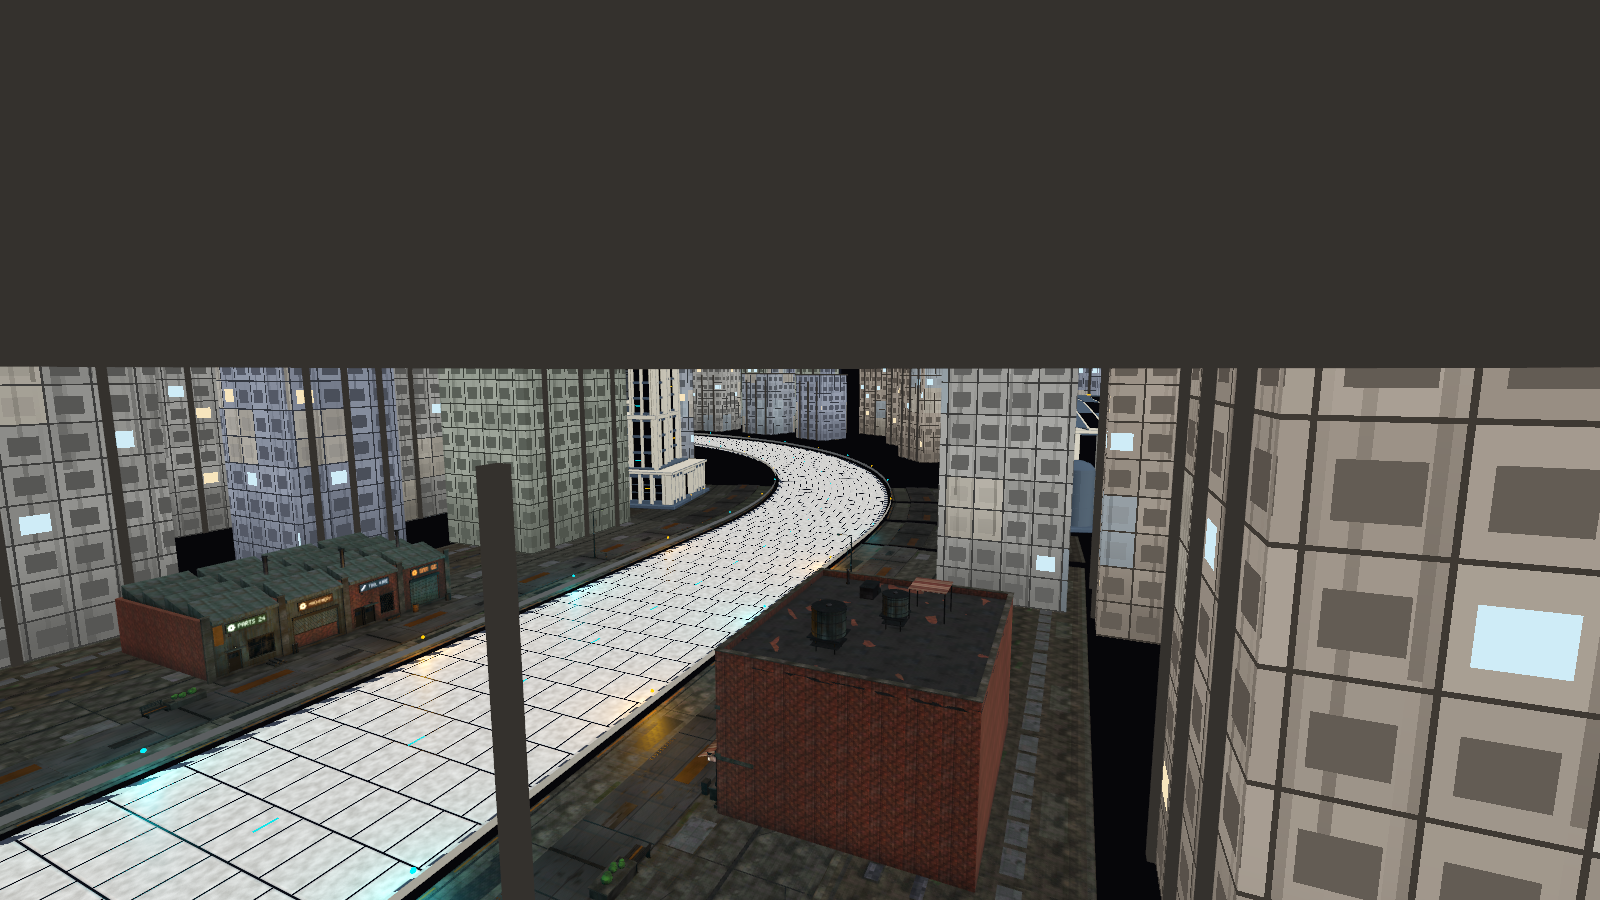
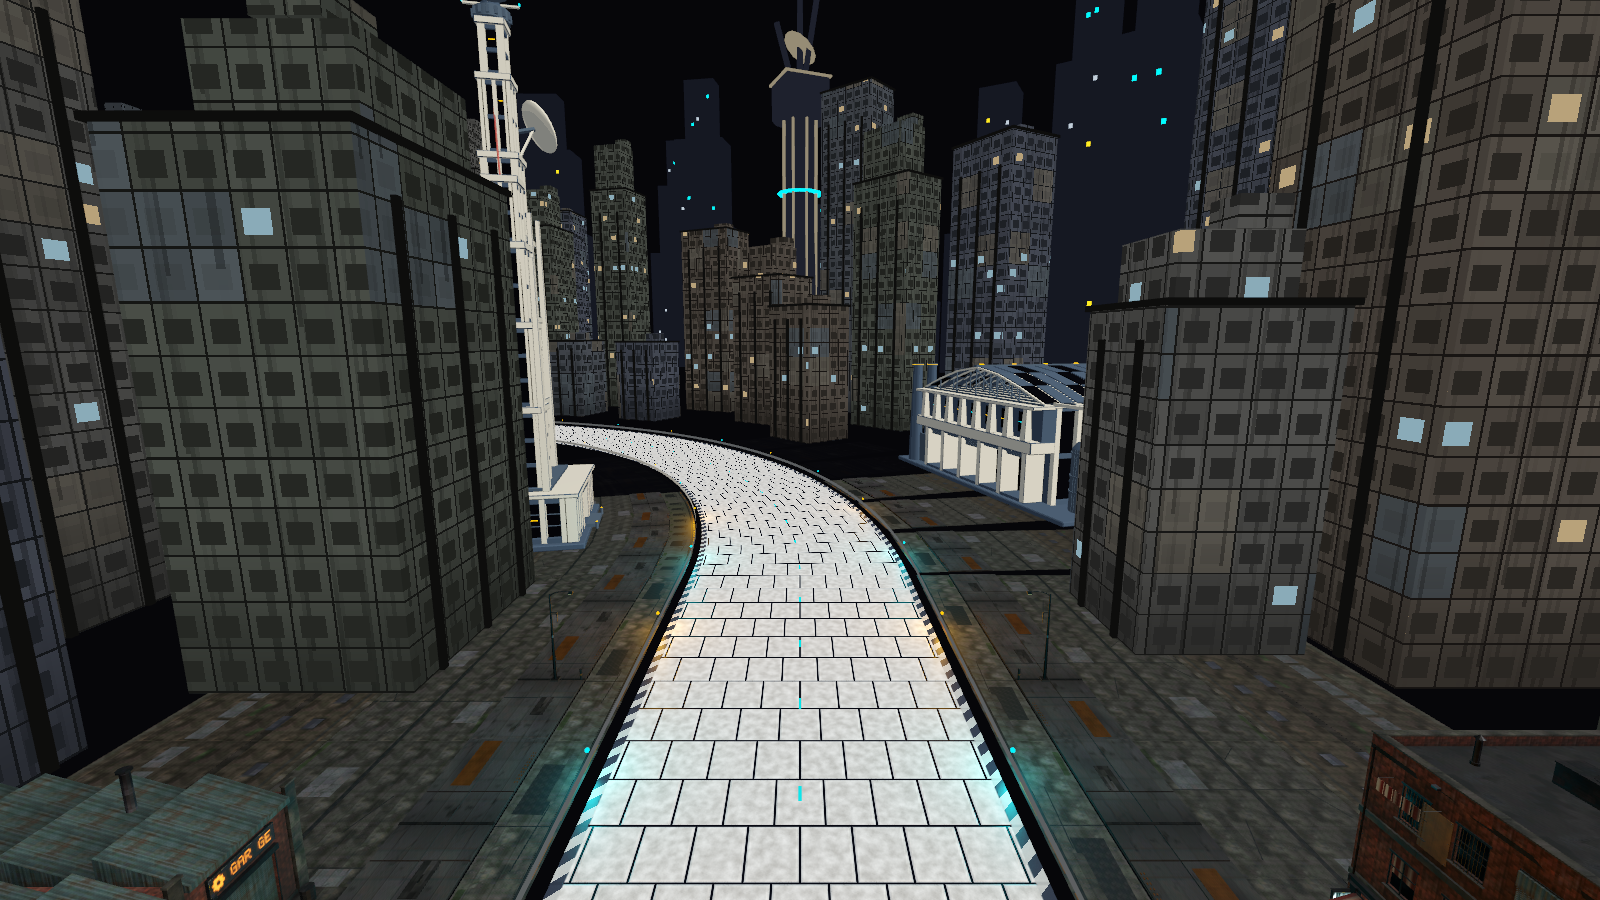
feat(city): finish weathered full-course city infill

diff --git a/.ai/reviews/city-background-infill-disposition.md b/.ai/reviews/city-background-infill-disposition.md
@@ -7,3 +7,13 @@ The mixed-author ak-review wrapper selected an optional reviewer automatically, 
 First-pass actual Vulkan checks: audio46/0, backdrop55/0, 21 captures saved/content/framing checks passed. Ground192/0, city227/0 headless and physical season-course33/0 passed in the delegated run. Its broad test was repeatedly cut off by the tool execution timer, including at the audio heading; this was not an audio assertion failure. Audio was independently rerun in both the baseline and integrated worktree and passes.
 
 Actual images require dimmer backdrop facades/trim so they support the detailed frontage at night. Follow-up: shader/trim exposure only, plus actual-renderer transform comparison and displacement detector. Placement, densities and shared assets stay fixed.
+
+## Final disposition
+
+Independent Codex review round2 found the detector meaningful and requested one initial await _settle() before reading fresh renderer transforms. Root added that exact wait. Both requested MED fixes are now verified: actual 1,438-instance matching, deliberate displacement rejection and restoration pass under Vulkan. No production-code findings or HIGH findings were raised. Review was not submitted for a third round.
+
+The visual follow-up keeps all placement and geometry identical. Body/roof/patch exposure is0.22, trim(0.045,0.043,0.040), sparse window albedo0.3 and emission0.2. Root renamed the exposure constant to BACKDROP_EXPOSURE after the focused run caught a reserved Godot identifier collision; the corrected shader compiles and runs successfully. One-off .ai/backdrop_focus.py was removed; the normal runner remains wired to the dedicated scene.
+
+Final ak-test exit0: backdrop57/0 headless, backdrop60/0 Vulkan, QA0failures/all21captures, audio46/0. All actual-renderer transforms match with zero mismatches. All four route quarters were inspected in actual driver/sidewalk/overview captures. Ground/building source assets, textures/import sidecars, course and vehicle data have no changes in this pass. No new lights or colliders. Delegate worktrees and redundant broad test jobs were cleaned; task branches preserved.
+
+The helper timeout and inherited TEST_CMD issue explain the interrupted broad runs; they are not claimed as a full default-suite pass. No unresolved review findings remain. Final approval of the artistic direction remains the user review of the preview.

diff --git a/docs/city-realism.md b/docs/city-realism.md
@@ -63,4 +63,8 @@ The backdrop uses one body MultiMesh and one trim MultiMesh. It has separate har
 
 Godot review capture coverage now includes four city overviews as well as eight driver views, eight sidewalk views and the ramen closeup (21 total). Each overview must frame at least one detailed frontage and five original/background pieces. Neutral overviews use diagnostic lighting to show layout and surface detail; driver/night views use the race environment and a QA camera headlight.
 
-Block Circuit emits 227 added backdrop buildings: 71 / 47 / 55 / 54 across the four quarters. Their 1,438 box instances total 17,256 triangles across two material batches. All 55 dedicated backdrop checks pass. The existing detailed-city total remains 887,544 triangles with 29 buildings.
+Block Circuit emits 227 added backdrop buildings: 71 / 47 / 55 / 54 across the four quarters. Their 1,438 box instances total 17,256 triangles across two material batches. Final dedicated backdrop checks pass 57/0 headless and 60/0 with Vulkan. The existing detailed-city total remains 887,544 triangles with 29 buildings.
+
+Final Vulkan readback verifies all 1,438 actual MultiMesh transforms against stored placements, deliberately displaces one instance, proves rejection and restores it. Reads wait two process frames and frame_post_draw, including the initial comparison. Dummy headless mode retains geometry checks and explicitly skips renderer readback. Final QA refreshes all 21 images with save/content/framing checks; audio passes 46/0. The shader uses BACKDROP_EXPOSURE 0.22, with trim albedo (0.045,0.043,0.040), so the infill supports the lit detailed frontages. This is a geometry/material verification, not a frame-rate guarantee.
+
+The delegate full run was cut off by execution limits, so it is not reported as a completed full default matrix. Relevant ground 192/0, city 227/0 headless, physical season-course 33/0, asset validators and dedicated backdrop checks passed. The physical City pilot completed three laps in 215.28 simulated seconds with zero recoveries. Final integration uses explicit targeted TEST_CMD values to avoid an inherited broad test command. No vehicle or course data changed.

diff --git a/.ai/reviews/latest.md b/.ai/reviews/latest.md
@@ -1,3 +1,3 @@
-VERDICT: CHANGES_REQUESTED
+VERDICT: FINDINGS_RESOLVED
 
-Independent Codex review: no production findings; one MED test gap (actual MultiMesh transform/displacement verification). See city-background-infill-disposition.md. Scoped follow-up pending.
+Independent Codex reviews raised two MED test findings; both are fixed and verified under Vulkan (actual instance readback, deliberate displacement/restoration, initial renderer settling). No production or HIGH findings. Root QA reviews: APPROVE. No third review round requested. Final ak-test exit0: backdrop57/0 headless,60/0 Vulkan; QA21captures/0failures; audio46/0. See city-background-infill-disposition.md for review provenance and interrupted broad-run limitations.
